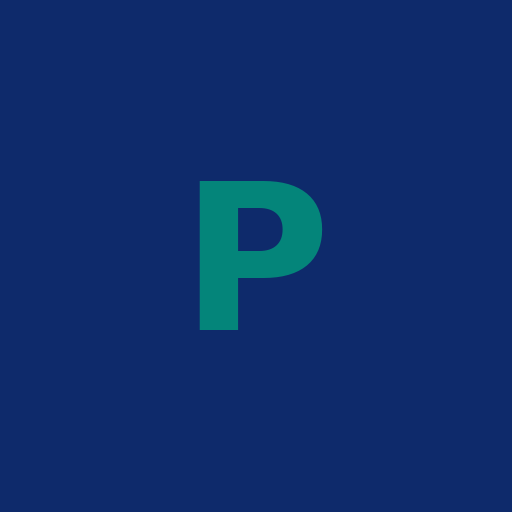
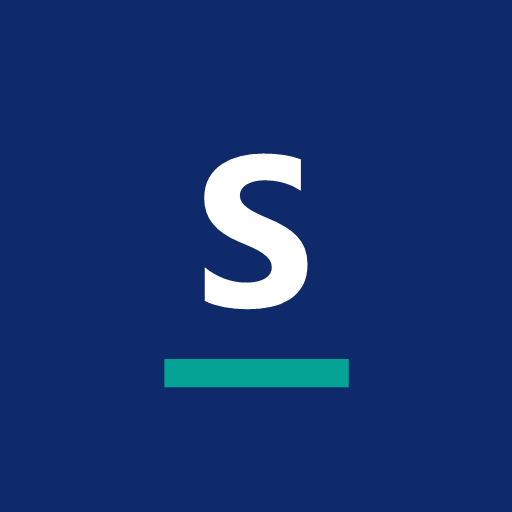
Perfil Aprovador (Compras não aprova), aviso de aprovação por e-mail, botão Instalar app, ícone novo

Changed region(s): [[0.375, 0.2812, 0.6562, 0.6562], [0.3125, 0.6875, 0.6875, 0.7812]]

diff --git a/app/app.js b/app/app.js
@@ -41,7 +41,8 @@ const IC = {
   refresh: 'M23 4v6h-6M1 20v-6h6M3.5 9a9 9 0 0 1 14.9-3.4L23 10M1 14l4.6 4.4A9 9 0 0 0 20.5 15',
   user: 'M20 21v-2a4 4 0 0 0-4-4H8a4 4 0 0 0-4 4v2M12 11a4 4 0 1 0 0-8 4 4 0 0 0 0 8z',
   logout: 'M9 21H5a2 2 0 0 1-2-2V5a2 2 0 0 1 2-2h4M16 17l5-5-5-5M21 12H9', search: 'M11 19a8 8 0 1 0 0-16 8 8 0 0 0 0 16zM21 21l-4.3-4.3',
-  file: 'M14 2H6a2 2 0 0 0-2 2v16a2 2 0 0 0 2 2h12a2 2 0 0 0 2-2V8zM14 2v6h6', back: 'M19 12H5M12 19l-7-7 7-7'
+  file: 'M14 2H6a2 2 0 0 0-2 2v16a2 2 0 0 0 2 2h12a2 2 0 0 0 2-2V8zM14 2v6h6', back: 'M19 12H5M12 19l-7-7 7-7',
+  download: 'M21 15v4a2 2 0 0 1-2 2H5a2 2 0 0 1-2-2v-4M7 10l5 5 5-5M12 15V3'
 };
 const ic = n => `<svg class="ic" viewBox="0 0 24 24" aria-hidden="true"><path d="${IC[n]}"/></svg>`;
 
@@ -90,6 +91,29 @@ document.addEventListener('click', e => {
   if (f && f.elements[c.dataset.campo]) { f.elements[c.dataset.campo].value = maisDias(+c.dataset.dias); f.elements[c.dataset.campo].dispatchEvent(new Event('change')); }
 });
 const wa = (tel, txt) => { let t = String(tel || '').replace(/\D/g, ''); if (!t) return ''; if (t.length <= 11) t = '55' + t; return `https://wa.me/${t}?text=${enc(txt)}`; };
+
+/* ---------- instalação (PWA): Android e PC instalam pelo botão; iPhone/iPad pelo menu Compartilhar ---------- */
+let PROMPT_INSTALAR = null;
+const instalado = () => matchMedia('(display-mode: standalone)').matches || navigator.standalone === true;
+const ehIOS = () => /iphone|ipad|ipod/i.test(navigator.userAgent) || (navigator.platform === 'MacIntel' && navigator.maxTouchPoints > 1);
+addEventListener('beforeinstallprompt', e => { e.preventDefault(); PROMPT_INSTALAR = e; });
+addEventListener('appinstalled', () => { PROMPT_INSTALAR = null; $$('.instalar').forEach(b => b.remove()); toast('App instalado! Abra pelo ícone "Compras Size".'); });
+const botaoInstalar = cl => instalado() ? '' : `<button type="button" class="instalar ${cl}" onclick="instalar()">${ic('download')}<span>Instalar o app</span></button>`;
+async function instalar() {
+  if (PROMPT_INSTALAR) {
+    PROMPT_INSTALAR.prompt();
+    try { await PROMPT_INSTALAR.userChoice; } catch (e) { /* cancelado */ }
+    PROMPT_INSTALAR = null;
+    return;
+  }
+  const passos = ehIOS()
+    ? `<h3>iPhone / iPad</h3><ol><li>Abra este endereço no <b>Safari</b>.</li><li>Toque em <b>Compartilhar</b> (o quadrado com a seta para cima ⬆).</li>
+       <li>Role e toque em <b>Adicionar à Tela de Início</b>.</li><li>Toque em <b>Adicionar</b>. O ícone "Compras Size" aparece junto dos outros apps.</li></ol>`
+    : `<h3>Android (Chrome)</h3><ol><li>Toque no menu <b>⋮</b> no canto superior.</li><li>Toque em <b>Instalar app</b> (ou <b>Adicionar à tela inicial</b>).</li></ol>
+       <h3>Computador (Chrome ou Edge)</h3><ol><li>Clique no ícone de instalar na barra de endereço (monitor com seta ⬇), ou no menu <b>⋮</b> → <b>Transmitir, salvar e compartilhar → Instalar página como app</b> (Chrome) / <b>Aplicativos → Instalar este site como aplicativo</b> (Edge).</li></ol>
+       <h3>iPhone / iPad</h3><p>No Safari: Compartilhar ⬆ → Adicionar à Tela de Início.</p>`;
+  modal('Instalar o app', `${passos}<small>Endereço: <b>${esc(location.origin + location.pathname)}</b></small>`, { semRodape: true });
+}
 
 /* ---------- estado e API ---------- */
 const S = { token: LS.get('cs_token'), sess: null, obraId: LS.get('cs_obra'), dados: null, ped: null, todos: false, adm: null };
@@ -170,6 +194,7 @@ function montarShell() {
       <div class="marca"><img src="icon-192.png" alt=""><div><b>Compras</b><small>Size Engenharia</small></div></div>
       <label class="obrasel">Obra<select id="obrasel"></select></label>
       <nav class="nav" id="nav"></nav>
+      ${botaoInstalar('no-menu')}
       <div class="rodape"><a href="#/conta">${ic('user')}<span>${esc(S.sess.usuario.nome)}</span></a><button id="sair" title="Sair">${ic('logout')}</button></div>
     </aside>
     <div class="scrim" id="scrim"></div>
@@ -268,7 +293,7 @@ function telaLogin(msg) {
     ${msg ? `<div class="aviso warn">${esc(msg)}</div>` : ''}
     <label>Usuário ou e-mail<input name="login" autocomplete="username" autocapitalize="none" autocorrect="off" spellcheck="false" required></label>
     <label>Senha<input name="senha" type="password" autocomplete="current-password" required></label>
-    <button class="btn full">Entrar</button></form></div>`;
+    <button class="btn full">Entrar</button>${botaoInstalar('no-login')}</form></div>`;
   $('#f').onsubmit = async e => {
     e.preventDefault();
     const f = e.target, b = $('button', f);
@@ -511,7 +536,7 @@ async function vPedido(numero) {
     if (can('compras_cotar')) A.push(['cotar', 'Pedir cotação', 'sec'], ['orc', 'Registrar orçamento', d.orcamentos.length ? 'sec' : '']);
     if (can('compras_definir') && d.orcamentos.length) A.push(['definir', 'Definir compra']);
   }
-  if (st === 'Aguardando aprovação' && can('compras_aprovar')) A.push(['aprovar', 'Aprovar compra'], ['devolver', 'Devolver p/ cotação', 'sec']);
+  if (st === 'Aguardando aprovação' && can('compras_aprovar')) A.push(['aprovar', 'Aprovar compra'], ['devolver', 'Reprovar', 'perigo']);
   if (st === 'Aprovado') {
     if (['Aguardando pagamento', 'A pagar'].includes(p.fin) && can('financeiro')) A.push(['pagar', 'Registrar pagamento']);
     if (p.entrega === 'Aguardando liberação' && can('compras_liberar')) A.push(['liberar', 'Liberar entrega']);
@@ -577,7 +602,7 @@ async function vPedido(numero) {
   $$('[data-ver]').forEach(b => { b.onclick = () => verArquivo(b.dataset.ver); });
   $$('[data-orc]').forEach(b => { b.onclick = () => mOrc(d, d.orcamentos.find(o => o.id === b.dataset.orc)); });
   const ACOES = {
-    cotar: () => mCotar([p.numero]), orc: () => mOrc(d), definir: () => mDefinir(d), aprovar: () => mAprovar(d), devolver: () => mMotivo(d, 'pedido_devolver', 'Devolver para cotação', 'Devolver'),
+    cotar: () => mCotar([p.numero]), orc: () => mOrc(d), definir: () => mDefinir(d), aprovar: () => mAprovar(d), devolver: () => mMotivo(d, 'pedido_devolver', 'Reprovar compra', 'Reprovar', 'A compra volta para Compras refazer a cotação. Para desistir do pedido de vez, use "Cancelar".'),
     pagar: () => mPagar(d), liberar: () => mLiberar(d, forn), receber: () => mReceber(d), nf: () => mNF(d), anexar: () => mAnexar(d), cancelar: () => mMotivo(d, 'pedido_cancelar', 'Cancelar pedido', 'Cancelar pedido')
   };
   $$('[data-acao]').forEach(b => { b.onclick = ACOES[b.dataset.acao]; });
@@ -688,8 +713,8 @@ function mAprovar(d) {
   { ok: 'Aprovar', onOk: async () => depois(await api('pedido_aprovar', { numero: p.numero })) });
 }
 
-function mMotivo(d, acao, t, ok) {
-  modal(t, '<label>Motivo<textarea name="motivo" required></textarea></label>', { ok, onOk: async f => depois(await api(acao, { numero: d.pedido.numero, motivo: f.motivo.value })) });
+function mMotivo(d, acao, t, ok, dica) {
+  modal(t, `${dica ? `<div class="aviso info">${esc(dica)}</div>` : ''}<label>Motivo<textarea name="motivo" required></textarea></label>`, { ok, onOk: async f => depois(await api(acao, { numero: d.pedido.numero, motivo: f.motivo.value })) });
 }
 
 function mPagar(d) {

diff --git a/app/style.css b/app/style.css
@@ -38,6 +38,9 @@ small,.mute{color:var(--mute)}
 .menu .rodape span{overflow:hidden;text-overflow:ellipsis;white-space:nowrap}
 .menu .rodape button{background:none;border:0;color:#B9C6E4;padding:8px;cursor:pointer}
 
+.instalar{display:flex;align-items:center;justify-content:center;gap:10px;font:inherit;font-weight:700;cursor:pointer;border-radius:10px;min-height:44px}
+.instalar.no-menu{margin:12px 16px 4px;background:var(--teal);color:#fff;border:0}
+.instalar.no-login{background:#fff;color:var(--teal);border:1px dashed var(--teal)}
 .topo{position:sticky;top:0;z-index:20;display:flex;align-items:center;gap:6px;background:#fff;border-bottom:3px solid var(--teal);
   height:calc(var(--top) + var(--sat));padding:var(--sat) calc(8px + var(--sar)) 0 calc(4px + var(--sal))}
 .topo h1{font-size:1.05rem;margin:0;color:var(--navy);flex:1;min-width:0;white-space:nowrap;overflow:hidden;text-overflow:ellipsis}

diff --git a/app/sw.js b/app/sw.js
@@ -1,5 +1,5 @@
 // Cache do app para abrir rápido e funcionar com sinal fraco na obra (os dados sempre vêm da API).
-const CACHE = 'compras-size-v1';
+const CACHE = 'compras-size-v2';
 const ARQUIVOS = ['./', './index.html', './style.css', './config.js', './app.js', './manifest.json', './icon-180.png', './icon-192.png', './icon-512.png'];
 
 self.addEventListener('install', e => { e.waitUntil(caches.open(CACHE).then(c => c.addAll(ARQUIVOS))); self.skipWaiting(); });
